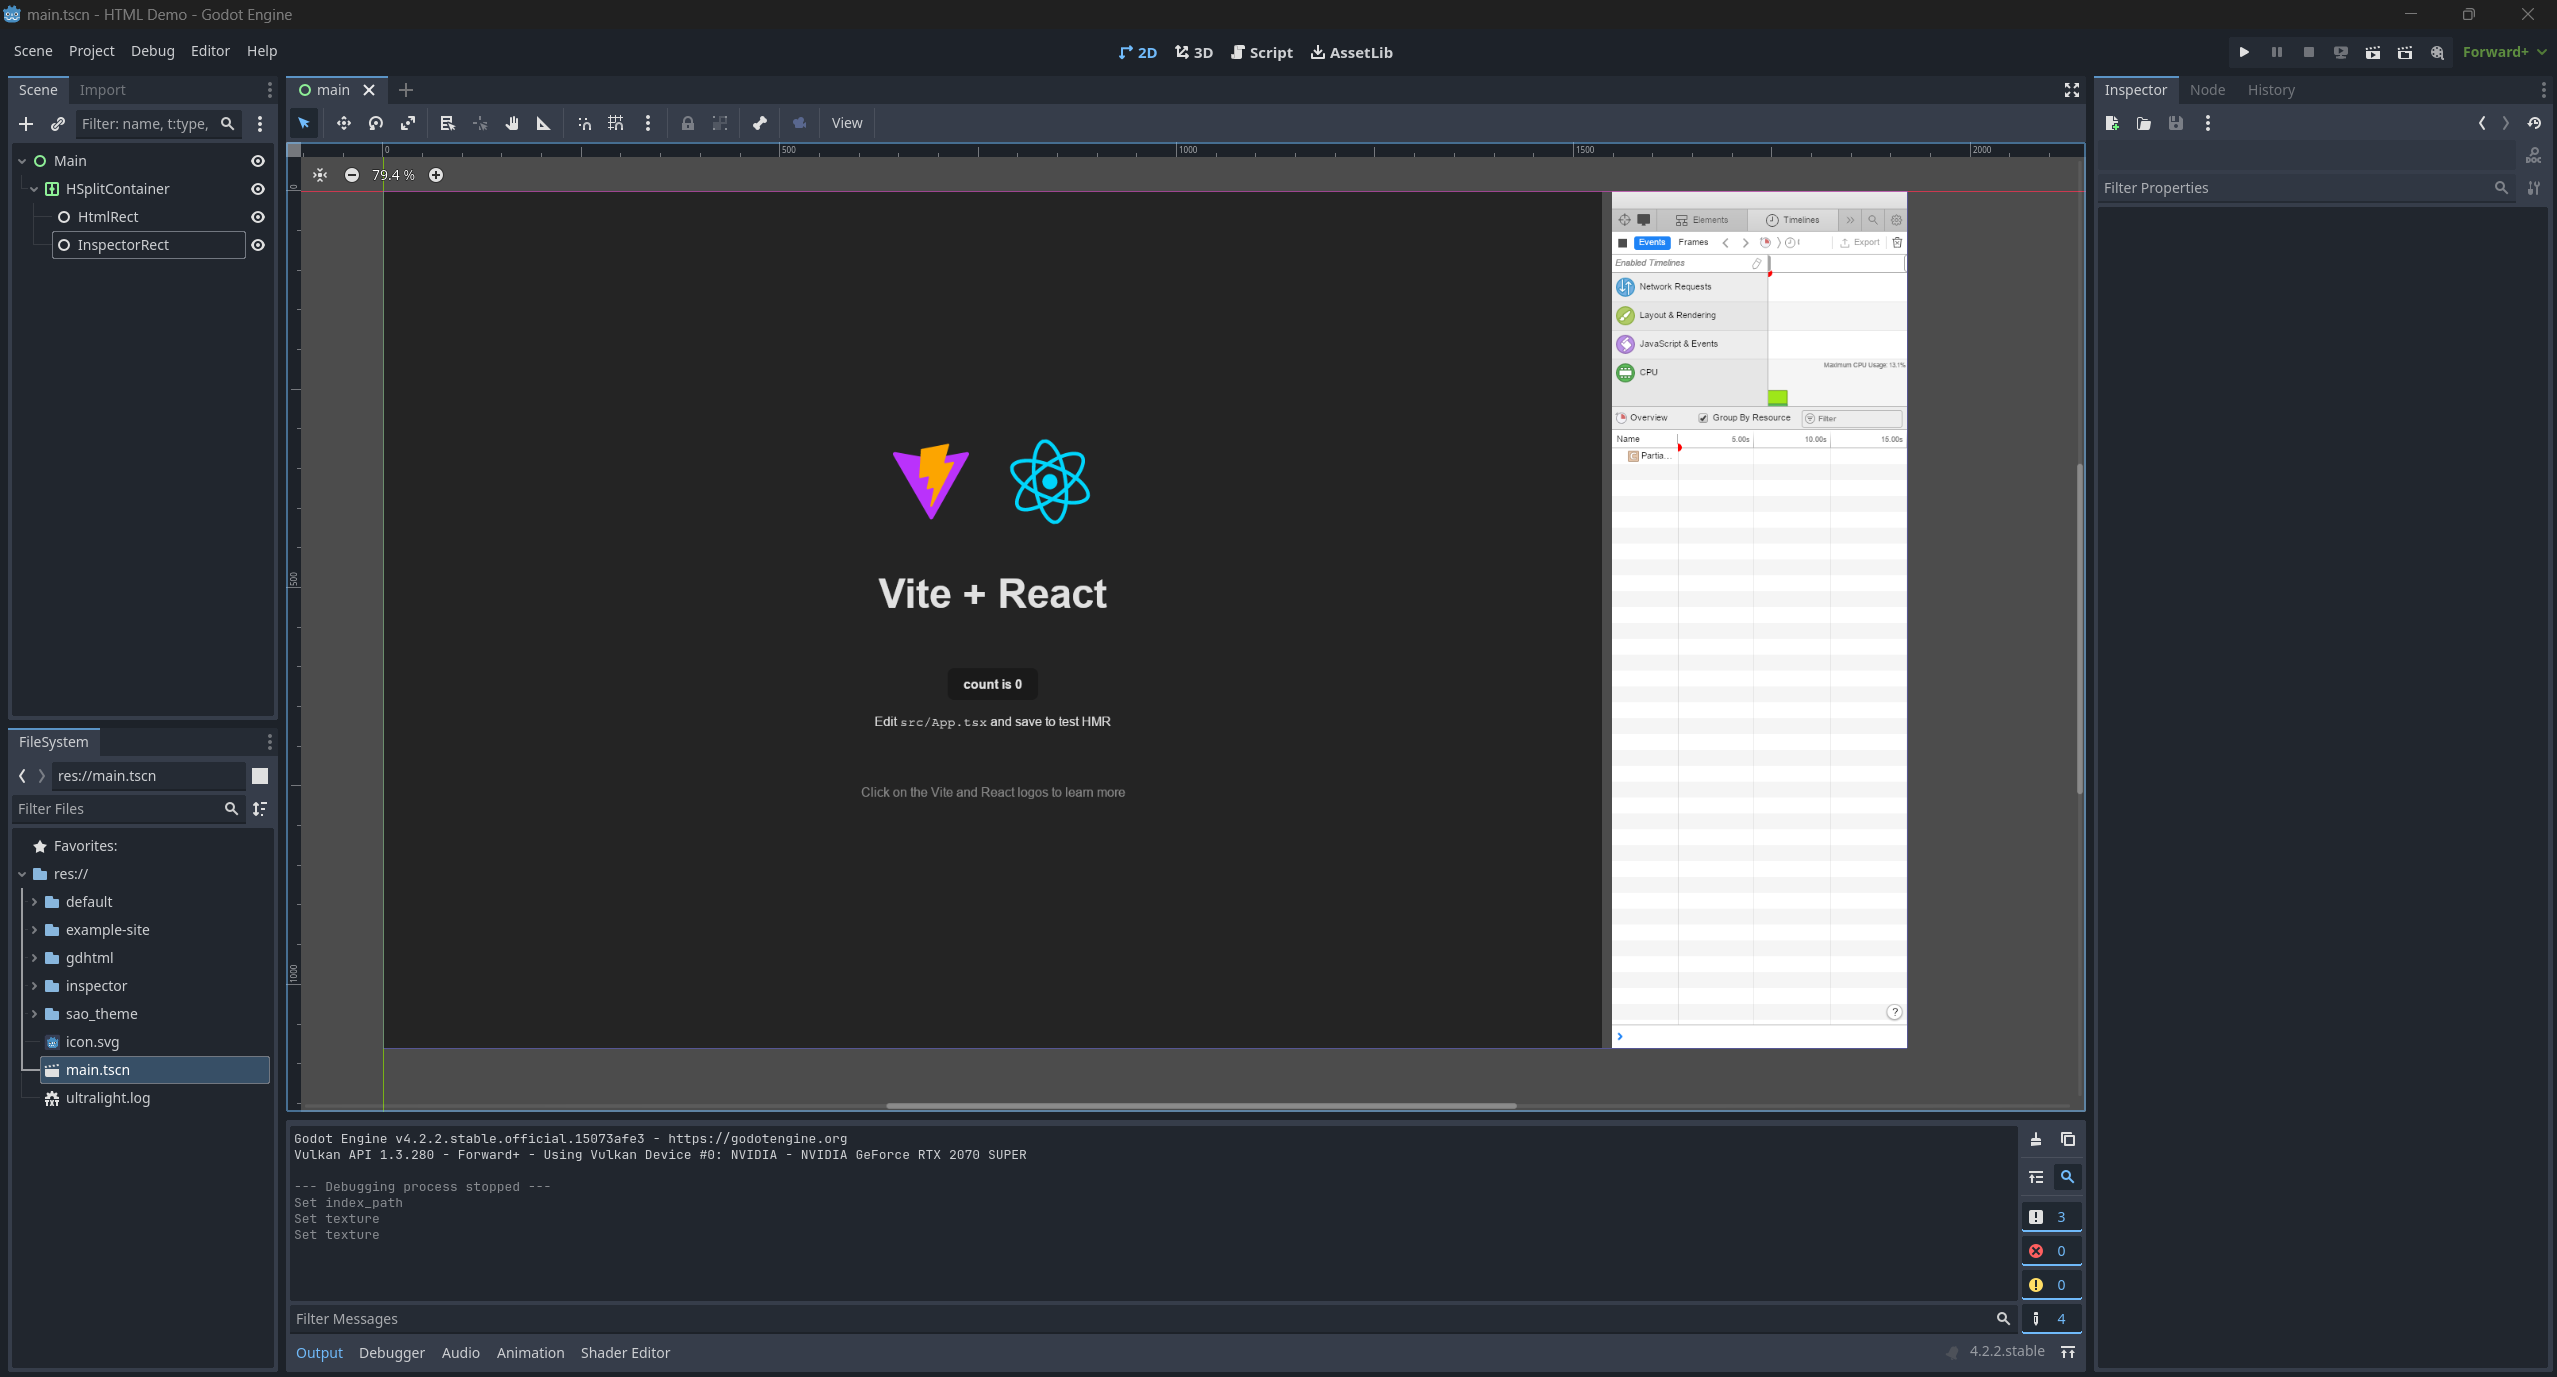
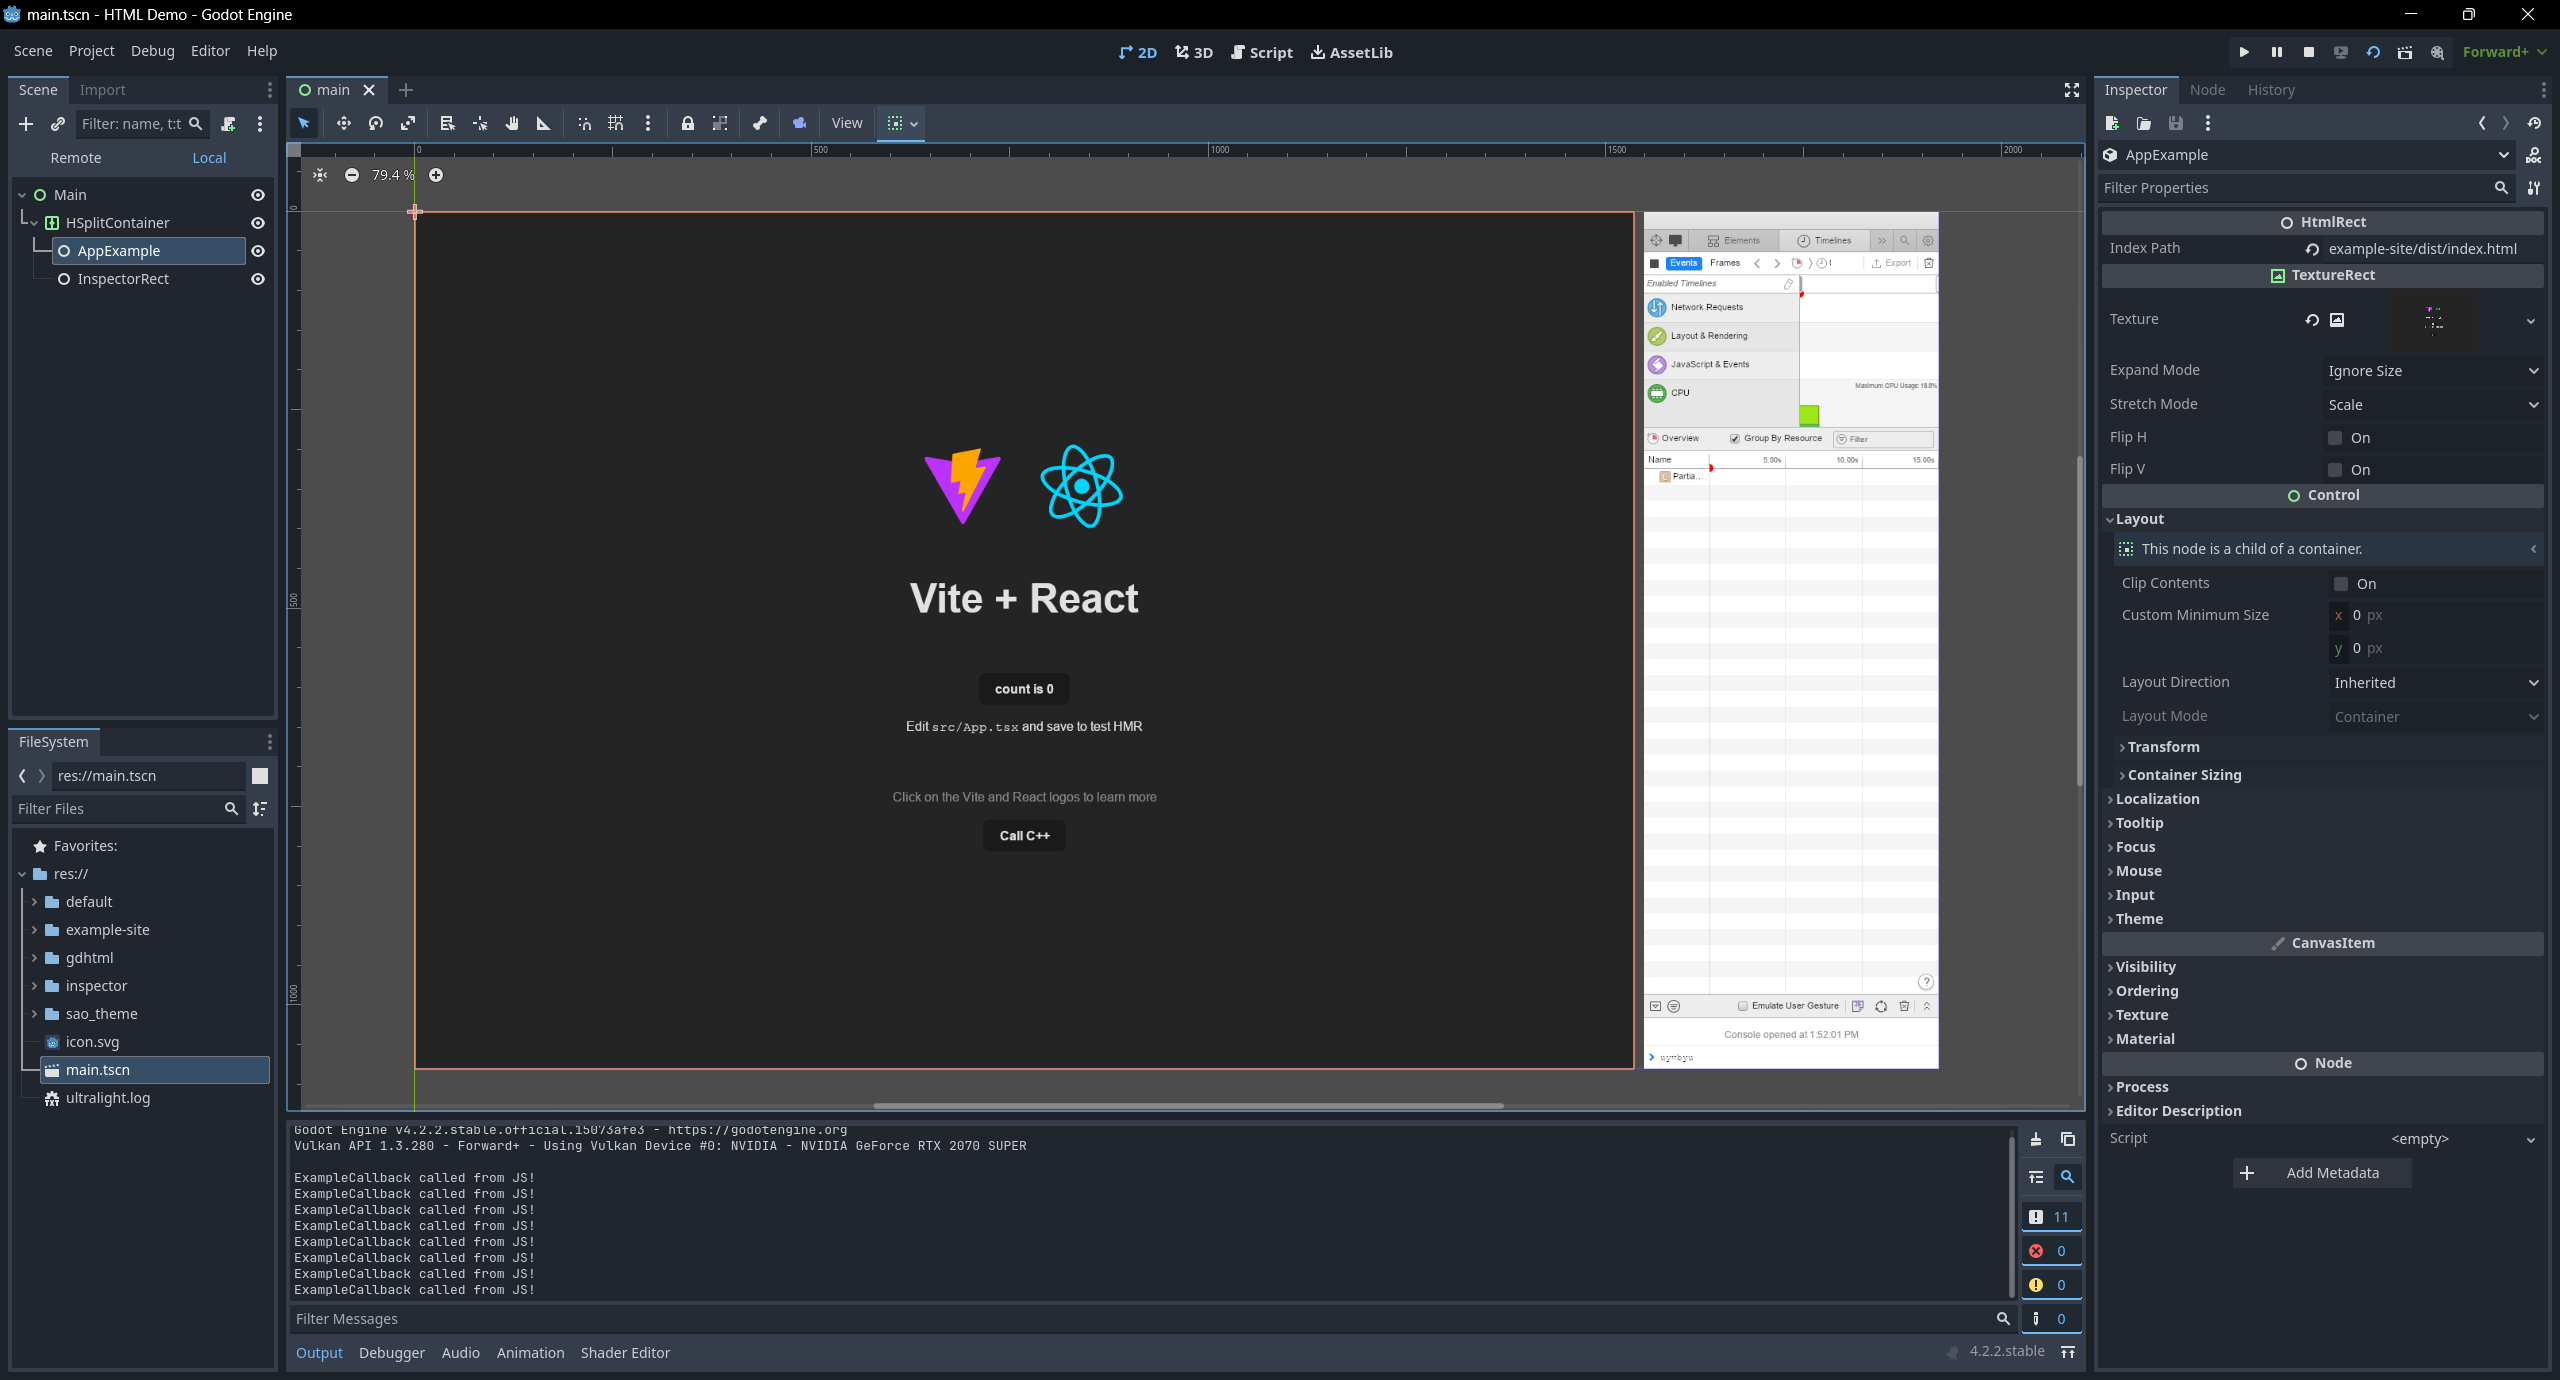
Update images in README.md

diff --git a/src/app_example.cpp b/src/app_example.cpp
@@ -30,6 +30,6 @@ void AppExample::SetupJS(JSContextRef context)
 
 JSValueRef AppExample::ExampleCallback(JSContextRef ctx, JSObjectRef function, JSObjectRef thisObject, size_t argumentCount, const JSValueRef arguments[], JSValueRef *exception)
 {
-    UtilityFunctions::print("ExampleCallback");
+    UtilityFunctions::print("ExampleCallback called from JS!");
     return JSValueMakeNull(ctx);
 }
